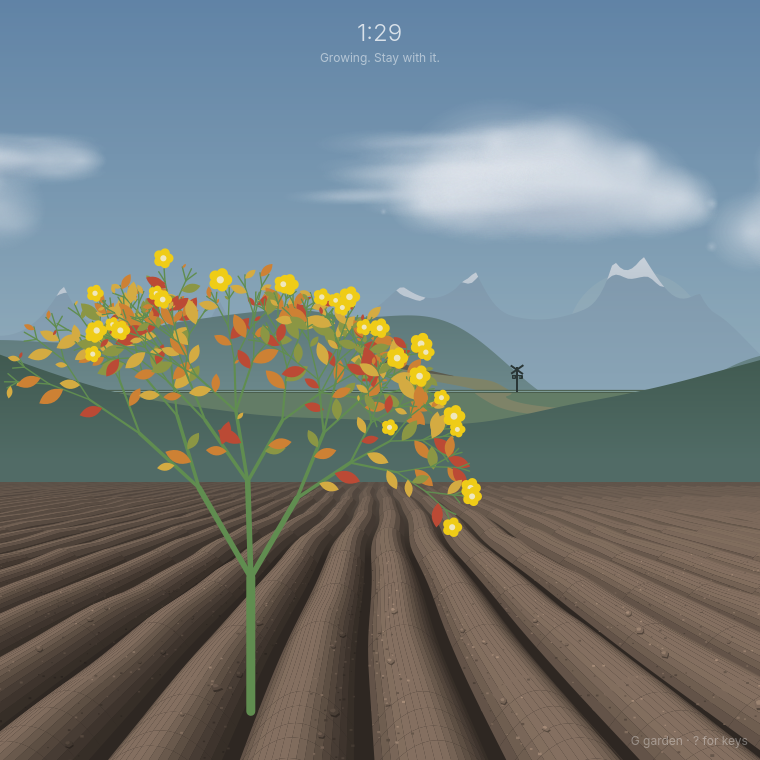
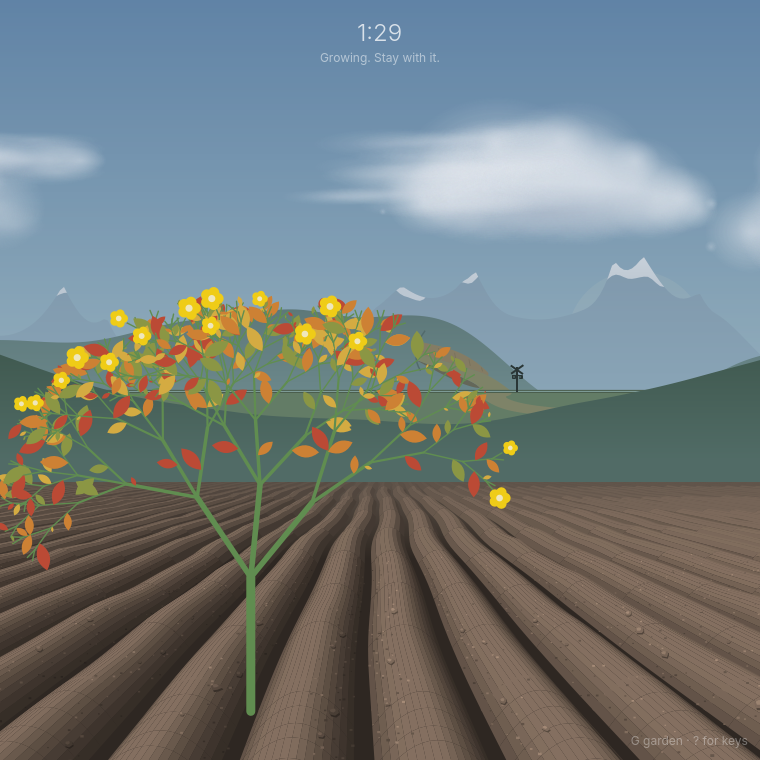
Cut the far road into the hillside and curve it out of sight

Changed region(s): [[0.0, 0.3329, 0.6961, 0.7566]]

diff --git a/src/Train.qml b/src/Train.qml
@@ -21,8 +21,12 @@ Item {
     property color ballastColor: "#26382d"
     property color railColor: "#6d7f78"
     property color roadColor: "#7a7258"
-    // The bare earth of the cut the road climbs into beyond the crossing.
+    // Beyond the crossing: the bare earth of the cut slope above the road,
+    // the tipped earth of the fill slope below it, and the hillside itself.
     property color cutColor: "#4a4232"
+    property color fillColor: "#3d3a2c"
+    property color hillColor: "#44605a"
+    property color hazeColor: "#9fb7c4"
 
     // The crossing stands a little right of the middle, clear of the plant.
     readonly property real crossingX: 0.68
@@ -108,6 +112,9 @@ Item {
             function onRailColorChanged() { bed.requestPaint() }
             function onRoadColorChanged() { bed.requestPaint() }
             function onCutColorChanged() { bed.requestPaint() }
+            function onFillColorChanged() { bed.requestPaint() }
+            function onHillColorChanged() { bed.requestPaint() }
+            function onHazeColorChanged() { bed.requestPaint() }
         }
         onPaint: {
             var ctx = getContext("2d")
@@ -167,34 +174,105 @@ Item {
                     ctx.lineTo(lower[b].x, lower[b].y)
                 ctx.closePath()
                 ctx.fill()
-                return upper
+                return { upper: upper, lower: lower }
             }
 
             ctx.fillStyle = root.roadColor
             // Near side.
             road({ x: centre, y: cy }, { x: centre, y: cy + H * 0.03 },
                  { x: centre + W * 0.1, y: cy + H * 0.034 }, { x: W * 1.08, y: cy + H * 0.028 }, 0)
-            // Far side: straight away from the rails at first, then turning up
-            // the slope to the left, getting narrower as it goes.
-            var far0 = { x: centre, y: cy }, far1 = { x: centre - W * 0.004, y: cy - H * 0.012 }
-            var far2 = { x: centre - W * 0.07, y: cy - H * 0.014 }, far3 = { x: centre - W * 0.14, y: cy - H * 0.03 }
-            var bank = road(far0, far1, far2, far3, 0.65)
-            // The cut: a bank of bare earth on the uphill side of the road over
-            // its last stretch, which the road runs in under and out of sight.
-            ctx.fillStyle = root.cutColor
+            // Far side: the road is cut into the hillside as it climbs, like an
+            // inslope road. It leaves the rails at full width, bends left and
+            // climbs across the face of the shoulder of hill, with a cut slope of
+            // bare earth above it and a fill slope below, then curves around
+            // the shoulder and out of sight.
+            var far0 = { x: centre, y: cy }, far1 = { x: centre - W * 0.006, y: cy - H * 0.02 }
+            var far2 = { x: centre - W * 0.06, y: cy - H * 0.03 }, far3 = { x: centre - W * 0.13, y: cy - H * 0.056 }
+            // Measure the road's edges first, without drawing.
+            var edges = (function () {
+                var saved = ctx.fillStyle
+                ctx.fillStyle = "transparent"
+                var e = road(far0, far1, far2, far3, 0.7)
+                ctx.fillStyle = saved
+                return e
+            })()
+            var n = edges.upper.length
+            function along(i) { return i / (n - 1) }
+            // The fill slope: earth tipped down the hill below the road, deepest
+            // where the road is farthest out on the slope.
+            var fillFrom = Math.floor(n * 0.2)
+            ctx.fillStyle = root.fillColor
             ctx.beginPath()
-            var startCut = Math.floor(bank.length * 0.55)
-            ctx.moveTo(bank[startCut].x, bank[startCut].y)
-            for (var e = startCut + 1; e < bank.length; e++) {
-                var rise = H * 0.009 * (e - startCut) / (bank.length - startCut)
-                ctx.lineTo(bank[e].x, bank[e].y - rise)
+            ctx.moveTo(edges.lower[fillFrom].x, edges.lower[fillFrom].y)
+            for (var i = fillFrom + 1; i < n; i++)
+                ctx.lineTo(edges.lower[i].x, edges.lower[i].y)
+            for (var k = n - 1; k >= fillFrom; k--) {
+                var tf = (along(k) - along(fillFrom)) / (1 - along(fillFrom))
+                var drop = H * 0.012 * Math.sin(Math.PI * Math.min(1, tf * 1.1)) * (1 - 0.5 * along(k))
+                ctx.lineTo(edges.lower[k].x + W * 0.004 * tf, edges.lower[k].y + drop)
             }
-            var endPoint = curve(far0, far1, far2, far3, 1)
-            ctx.lineTo(endPoint.x - W * 0.012, endPoint.y + H * 0.002)
-            for (var f = bank.length - 1; f >= startCut; f--)
-                ctx.lineTo(bank[f].x, bank[f].y + H * 0.0005)
             ctx.closePath()
             ctx.fill()
+            // The road itself.
+            ctx.fillStyle = root.roadColor
+            road(far0, far1, far2, far3, 0.7)
+            // The cut slope: the bank left where the road was dug into the hill,
+            // tallest partway up and gone where the road leaves the flat.
+            var cutFrom = Math.floor(n * 0.25)
+            var cutTop = []
+            for (var c = cutFrom; c < n; c++) {
+                var tc = (along(c) - along(cutFrom)) / (1 - along(cutFrom))
+                var tall = H * (0.004 + 0.02 * Math.sin(Math.PI * 0.5 * Math.min(1, tc * 1.6))) * (1 - 0.35 * tc)
+                cutTop.push({ x: edges.upper[c].x - W * 0.003 * tc, y: edges.upper[c].y - tall })
+            }
+            ctx.fillStyle = root.cutColor
+            ctx.beginPath()
+            ctx.moveTo(edges.upper[cutFrom].x, edges.upper[cutFrom].y)
+            for (var u2 = cutFrom + 1; u2 < n; u2++)
+                ctx.lineTo(edges.upper[u2].x, edges.upper[u2].y)
+            for (var v2 = cutTop.length - 1; v2 >= 0; v2--)
+                ctx.lineTo(cutTop[v2].x, cutTop[v2].y)
+            ctx.closePath()
+            ctx.fill()
+            // Rain has scored the cut with short runnels down its face.
+            ctx.strokeStyle = Qt.rgba(root.cutColor.r * 0.82, root.cutColor.g * 0.82, root.cutColor.b * 0.82, 0.45)
+            ctx.lineWidth = 1
+            for (var r2 = 3; r2 < cutTop.length - 2; r2 += 5) {
+                var topPt = cutTop[r2], footPt = edges.upper[cutFrom + r2]
+                ctx.beginPath()
+                ctx.moveTo(topPt.x, topPt.y + (footPt.y - topPt.y) * 0.15)
+                ctx.lineTo(topPt.x + (footPt.x - topPt.x) * 0.7 + 1, topPt.y + (footPt.y - topPt.y) * 0.75)
+                ctx.stroke()
+            }
+            // Where the road curves around the shoulder, the near flank of the
+            // hill comes across it, and it passes out of sight.
+            var bend = curve(far0, far1, far2, far3, 0.86)
+            var span = H * 0.034
+            // Coloured exactly as the hillside around it is: fading toward the
+            // sky colour at its foot, as the ridges behind are painted.
+            var y0 = H * root.horizon
+            var flank = ctx.createLinearGradient(0, y0 - H * 0.2, 0, y0 + 2)
+            flank.addColorStop(0, root.hillColor)
+            flank.addColorStop(1, Qt.rgba(root.hillColor.r + (root.hazeColor.r - root.hillColor.r) * 0.4,
+                                          root.hillColor.g + (root.hazeColor.g - root.hillColor.g) * 0.4,
+                                          root.hillColor.b + (root.hazeColor.b - root.hillColor.b) * 0.4, 1))
+            ctx.fillStyle = flank
+            ctx.beginPath()
+            ctx.moveTo(bend.x + W * 0.012, bend.y - span)
+            ctx.bezierCurveTo(bend.x - W * 0.004, bend.y - span * 0.4, bend.x - W * 0.002, bend.y + span * 0.2,
+                              bend.x + W * 0.006, bend.y + span * 0.55)
+            ctx.lineTo(bend.x - W * 0.08, bend.y + span * 0.55)
+            ctx.lineTo(bend.x - W * 0.08, bend.y - span)
+            ctx.closePath()
+            ctx.fill()
+            // A soft shadow along the fold of the shoulder.
+            ctx.strokeStyle = Qt.darker(root.hillColor, 1.12)
+            ctx.lineWidth = Math.max(1, H * 0.002)
+            ctx.beginPath()
+            ctx.moveTo(bend.x + W * 0.012, bend.y - span)
+            ctx.bezierCurveTo(bend.x - W * 0.004, bend.y - span * 0.4, bend.x - W * 0.002, bend.y + span * 0.2,
+                              bend.x + W * 0.006, bend.y + span * 0.55)
+            ctx.stroke()
             // Ballast, then a rail catching what light there is on top of it.
             line()
             ctx.lineWidth = Math.max(2, H * 0.004)

diff --git a/src/SkyBackdrop.qml b/src/SkyBackdrop.qml
@@ -164,7 +164,10 @@ Item {
         floorColor: look.floorColor
         ballastColor: Qt.darker(look.floorColor, 1.35)
         roadColor: Qt.tint(look.floorColor, Qt.rgba(0.62, 0.55, 0.42, 0.45))
-        cutColor: Qt.darker(Qt.tint(look.midColor, Qt.rgba(0.45, 0.36, 0.25, 0.55)), 1.15)
+        cutColor: Qt.tint(look.midColor, Qt.rgba(0.62, 0.5, 0.34, 0.6))
+        fillColor: Qt.darker(Qt.tint(look.midColor, Qt.rgba(0.5, 0.42, 0.3, 0.5)), 1.1)
+        hillColor: look.midColor
+        hazeColor: light.skyBottom
         railColor: Qt.tint(look.floorColor, Qt.rgba(light.skyBottom.r, light.skyBottom.g, light.skyBottom.b, 0.55))
     }
     Connections {

diff --git a/src/main.cpp b/src/main.cpp
@@ -22,7 +22,7 @@
 int main(int argc, char *argv[]) {
     QGuiApplication app(argc, argv);
     app.setApplicationName("grove");
-    app.setApplicationVersion("0.6.0");
+    app.setApplicationVersion("0.6.1");
 
     // Matches the window to grove.desktop, so the compositor (Wayland app_id)
     // and the launcher pick up the installed icon.
